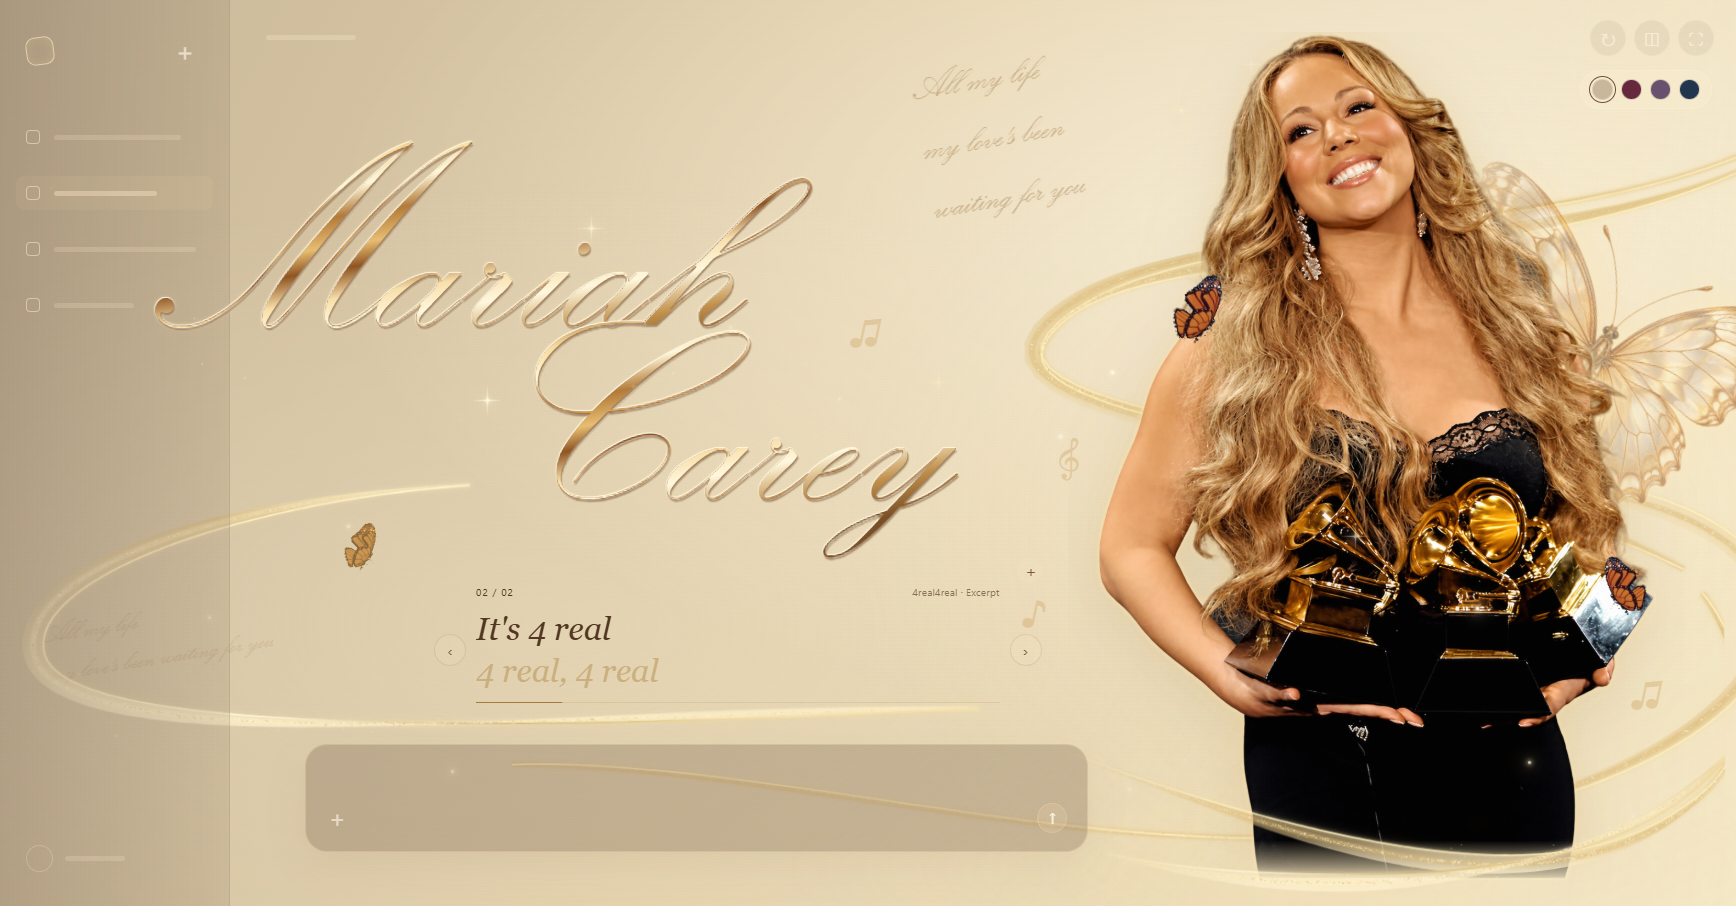
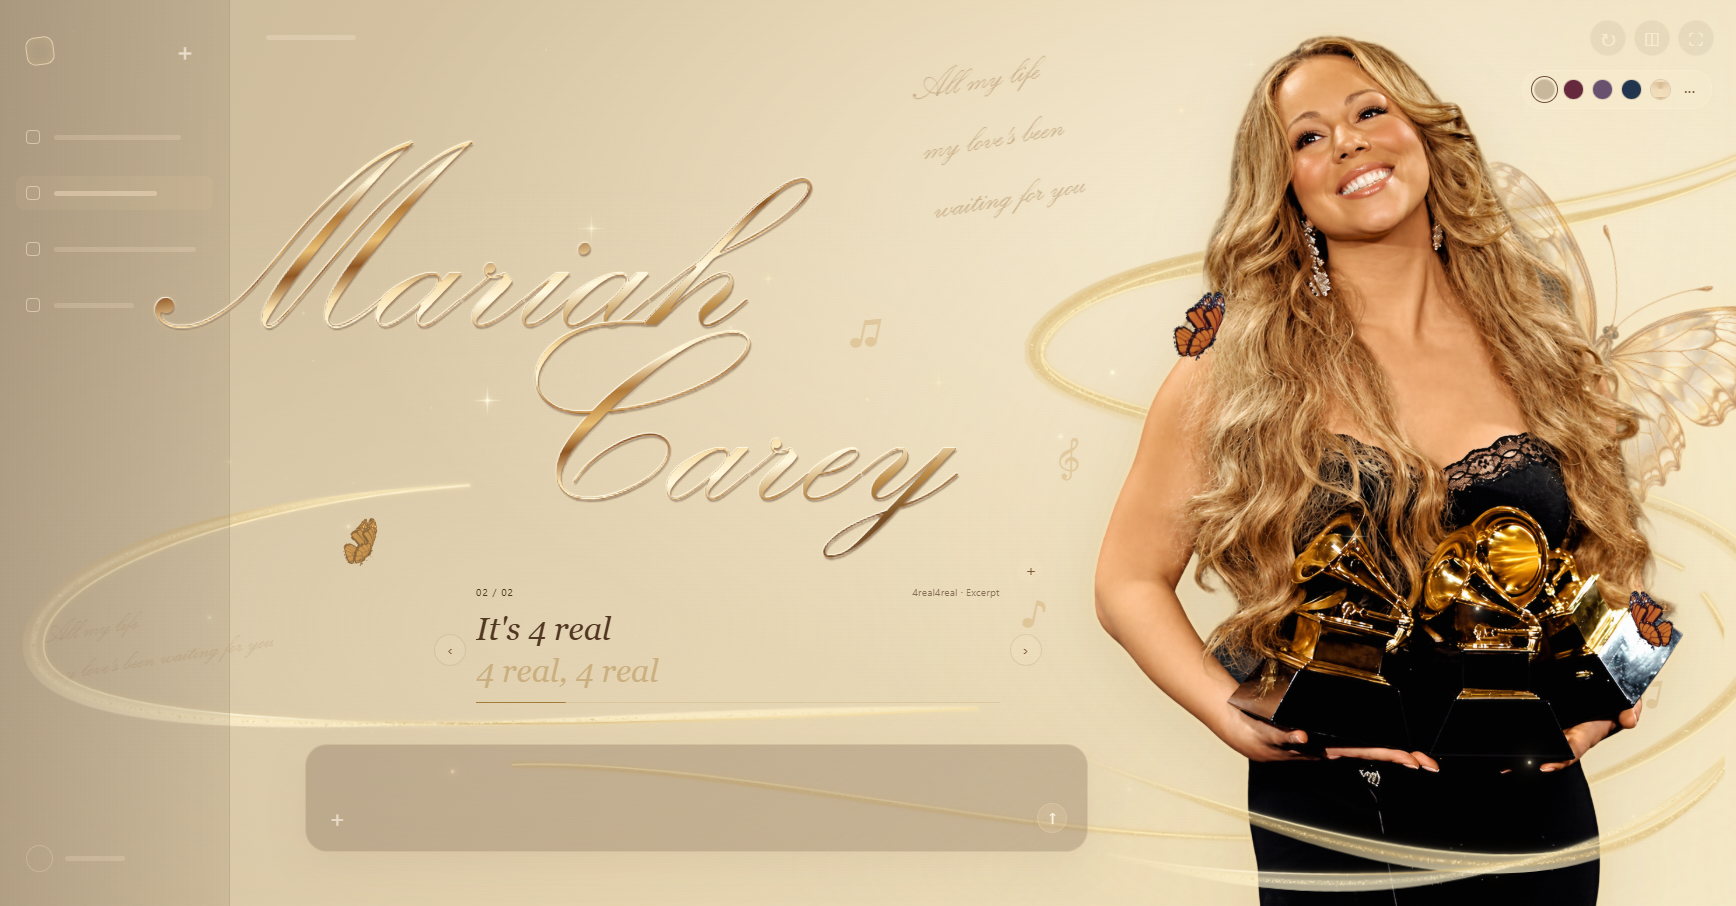
Add compact palette picker and conceal portrait bottom edge

Changed region(s): [[0.6221, 0.0309, 0.9643, 1.0], [0.871, 0.0927, 0.9954, 0.1236], [0.1866, 0.5563, 0.2177, 0.6181]]

diff --git a/reference-visual.css b/reference-visual.css
@@ -137,3 +137,46 @@
 
 /* An asymmetric twilight composition: jewel colors collect at distinct focal points. */
 .stage[data-accent="champagne"]{--effect-color:#d5b676;--effect-light:#fff0c8;--effect-glow:#f1d69955;--effect-haze:#f3db9c20}
+.stage[data-accent="prism"]{--effect-color:#b38b75;--effect-light:#f6dfb5;--effect-glow:#e7c48255;--effect-haze:#d6ad8717;background:radial-gradient(ellipse 66% 78% at 3% 10%,#426f9694 0%,#426f9645 44%,#426f9600 100%),radial-gradient(ellipse 64% 76% at 99% 92%,#426f968a 0%,#426f963b 44%,#426f9600 100%),radial-gradient(ellipse 64% 72% at 10% 94%,#b56c5e80 0%,#b56c5e38 46%,#b56c5e00 100%),radial-gradient(ellipse 64% 72% at 94% 3%,#b56c5e78 0%,#b56c5e33 46%,#b56c5e00 100%),radial-gradient(ellipse 70% 90% at 57% 46%,#fff0cba6 0%,#fff0cb45 50%,#fff0cb00 100%),linear-gradient(115deg,#eed9b9,#f3dfbb 52%,#efdab9)}
+.stage[data-accent="prism"] .sidebar{background:transparent;border-right-color:transparent}
+.stage[data-accent="prism"] .composer{background:linear-gradient(105deg,#82684c38,#b59a7333 66%,#b9a58c32);border-color:#eee0c54a}
+.stage[data-accent="prism"] .beam{background:radial-gradient(ellipse at 65% 35%,#fff0dc18,#fff0dc00 70%)}
+.stage[data-accent="prism"] .lyric-line:not(.lyric-next){color:#453d32}
+.stage[data-accent="prism"] .lyric-next{color:#8b664b}
+.stage[data-accent="prism"] .bg-words.lower{color:#f3e5ce;opacity:.4}
+.stage[data-accent="prism"] #translucent-0-1 stop:nth-child(2){stop-color:#b57960}
+.stage[data-accent="prism"] #translucent-0-1 stop:nth-child(4){stop-color:#e5d0a8}
+.stage[data-accent="prism"] #translucent-1-1 stop:nth-child(2){stop-color:#739cb5}
+.stage[data-accent="prism"] #translucent-1-1 stop:nth-child(4){stop-color:#ead6ae}
+.stage[data-accent="prism"] .accent-trail-gradient stop:nth-child(2){stop-color:#eddbb4}
+.stage[data-accent="prism"] .accent-trail-gradient stop:nth-child(4){stop-color:#94b4c5}
+.stage[data-accent="prism"] .reference-ribbons:not(.front) .accent-grain{fill:#bca184}
+.stage[data-accent="prism"] .reference-ribbons.front .accent-grain{fill:#c4c9b9}
+.stage[data-accent="prism"] .reference-star:nth-child(4n){background:#f0dcb2;box-shadow:0 0 8px #e4c78d88}
+.stage[data-accent="prism"] .reference-star:nth-child(4n+1){background:#ccd4cc;box-shadow:0 0 8px #afbec488}
+.stage[data-accent="prism"] #champagneInk stop:nth-child(3){stop-color:#e4cc9d}
+.stage[data-accent="prism"] #champagneInk stop:nth-child(8){stop-color:#eee0bc}
+
+/* Local palette studies; the portrait keeps its original warm lighting. */
+.stage[data-accent="teal"]{--effect-color:#63958a;--effect-light:#e5e7bf;--effect-glow:#8cbb9e55;--effect-haze:#709d8617}
+.stage[data-accent="olive"]{--effect-color:#ac965a;--effect-light:#f2e4b5;--effect-glow:#c1ac6755;--effect-haze:#b7a06b17}
+.stage[data-accent="burgundy"]{--effect-color:#ba827e;--effect-light:#f4d5b8;--effect-glow:#d4a08a55;--effect-haze:#b87b7117}
+.stage[data-accent="pearl"]{--effect-color:#95b2c8;--effect-light:#f1ecd9;--effect-glow:#afcad755;--effect-haze:#9dbccc17}
+.stage:is([data-accent="teal"],[data-accent="olive"],[data-accent="burgundy"],[data-accent="pearl"]){background:radial-gradient(ellipse 75% 100% at 73% 30%,#fff0d3b3 0%,#fff0d333 50%,#fff0d300 100%),radial-gradient(ellipse 80% 90% at 98% 110%,var(--left) 0%,transparent 78%),linear-gradient(115deg,var(--left),var(--mid) 48%,var(--right))}
+.stage:is([data-accent="teal"],[data-accent="olive"],[data-accent="burgundy"],[data-accent="pearl"]) .sidebar{background:transparent;border-right-color:transparent}
+
+.palette .palette-more{background:transparent;color:#775d40;box-shadow:none;font-size:18px;line-height:14px}
+.palette-extra{position:absolute;right:0;top:calc(100% + 10px);width:288px;max-width:calc(100vw - 32px);padding:12px;display:grid;grid-template-columns:1fr 1fr;gap:8px;background:#f5ebdceF;border:1px solid #c9ae7970;border-radius:16px;box-shadow:0 10px 32px #45362a25;backdrop-filter:blur(16px)}
+.palette-extra[hidden]{display:none}
+.palette-extra .palette-choice{width:auto;height:38px;border-radius:9px;border:1px solid transparent;box-shadow:none;color:#594834;font-size:12px;display:flex;align-items:center;gap:8px;padding:5px 8px;background:transparent}
+.palette-extra .palette-choice:before{content:'';width:18px;height:18px;flex-shrink:0;border-radius:50%;background:var(--swatch);box-shadow:0 0 0 1px #795c4933}
+.palette-extra .palette-choice:hover{background:#e9d9bf66}
+.palette-extra .palette-choice[aria-pressed=true]{outline:none;border-color:#a68a59;background:#eadac377}
+.stage[data-accent^="mix-"]{--effect-color:var(--left);--effect-light:#f5e0bc;--effect-glow:#dcc39355;--effect-haze:#d6ad8717;background:radial-gradient(ellipse 72% 85% at 0% 5%,color-mix(in srgb,var(--left) 65%,transparent),transparent 100%),radial-gradient(ellipse 68% 80% at 100% 95%,color-mix(in srgb,var(--left) 58%,transparent),transparent 100%),radial-gradient(ellipse 68% 80% at 0% 100%,color-mix(in srgb,var(--mid) 65%,transparent),transparent 100%),radial-gradient(ellipse 72% 85% at 100% 0%,color-mix(in srgb,var(--mid) 58%,transparent),transparent 100%),radial-gradient(ellipse at 65% 35%,#fff2d5aa,transparent 70%),linear-gradient(115deg,#eddbbf,var(--right))}
+.stage[data-accent^="mix-"] .sidebar{background:transparent;border-right-color:transparent}
+.stage[data-accent^="mix-"] .composer{background:#8b775239}
+.stage[data-accent^="mix-"] .accent-trail-gradient stop:nth-child(2){stop-color:var(--mid)}
+.stage[data-accent^="mix-"] .accent-trail-gradient stop:nth-child(4){stop-color:var(--left)}
+
+/* Keep the head at its existing height and carry the cropped hem below the viewport. */
+@media(min-width:851px){.stage .portrait{height:100vh;width:65.23vh;bottom:-3.5vh}.stage .photo{mask-image:none}}

diff --git a/index.html b/index.html
@@ -12,7 +12,22 @@ const stage=document.querySelector('#stage'),canvas=document.querySelector('#dus
 </style>
 <div class="palette" aria-label="背景配色"></div>
 <script>
-const themes=[['浅香槟','#c8b79a','#e3d0aa','#f4e8c9','champagne'],['香槟 × 深酒红','#65283d','#b58c89','#f1e5cb','wine'],['香槟 × 烟紫','#67516f','#b4a0ba','#f1e5cb','violet'],['香槟 × 午夜蓝','#22354e','#8eabb5','#f1e5cb','blue']];for(const [i,t] of themes.entries()){const btn=document.createElement('button');btn.style.background=t[1];btn.title=t[0];btn.setAttribute('aria-label',t[0]);btn.setAttribute('aria-pressed',i===0?'true':'false');btn.onclick=()=>{document.querySelector('.stage').dataset.accent=t[4];['--left','--mid','--right'].forEach((v,n)=>document.documentElement.style.setProperty(v,t[n+1]));document.querySelectorAll('.palette button').forEach(b=>b.setAttribute('aria-pressed',String(b===btn)))};document.querySelector('.palette').append(btn)}document.querySelector('.palette button:first-child').click();
+const themes=[['浅香槟','#c8b79a','#e3d0aa','#f4e8c9','champagne'],['香槟 × 深酒红','#65283d','#b58c89','#f1e5cb','wine'],['香槟 × 烟紫','#67516f','#b4a0ba','#f1e5cb','violet'],['香槟 × 午夜蓝','#22354e','#8eabb5','#f1e5cb','blue'],['暮光撞色','#d7bb94','#f3dfbb','#efdab9','prism'],['孔雀青金','#376b69','#c8cfb4','#f2e3c5','teal'],['橄榄金','#77764c','#d1c39b','#f2e2be','olive'],['勃艮第红','#79424b','#d0afa0','#f4e0be','burgundy'],['珍珠蓝金','#718ca9','#c7d7df','#f3e5cd','pearl'],['青碧 · 玫瑰金','#417e78','#c58d7d','#f4dfb9','mix-jade'],['莓红 · 月光蓝','#945967','#7e9fba','#f3dfbf','mix-berry'],['琥珀 · 靛青','#bc8754','#596d9c','#f5e1bb','mix-amber']];
+const palette=document.querySelector('.palette'),extra=document.createElement('div'),more=document.createElement('button');
+extra.id='palette-extra';extra.className='palette-extra';extra.hidden=true;
+more.className='palette-more';more.textContent='···';more.title='更多配色';more.setAttribute('aria-label','更多配色');more.setAttribute('aria-expanded','false');more.setAttribute('aria-controls',extra.id);
+function closePalette(){extra.hidden=true;more.setAttribute('aria-expanded','false')}
+for(const [i,t] of themes.entries()){
+ const btn=document.createElement('button'),mixed=t[4]==='prism'||t[4].startsWith('mix-');
+ btn.className='palette-choice';btn.style.background=mixed?`conic-gradient(${t[1]},${t[3]},${t[2]},${t[3]},${t[1]})`:t[1];btn.title=t[0];btn.setAttribute('aria-label',t[0]);btn.setAttribute('aria-pressed','false');
+ if(i>=5){btn.textContent=t[0];btn.style.setProperty('--swatch',btn.style.background);btn.style.background=''}
+ btn.onclick=()=>{stage.dataset.accent=t[4];['--left','--mid','--right'].forEach((v,n)=>document.documentElement.style.setProperty(v,t[n+1]));palette.querySelectorAll('.palette-choice').forEach(b=>b.setAttribute('aria-pressed',String(b===btn)));closePalette();if(i>=5)more.focus()};
+ (i<5?palette:extra).append(btn);
+}
+more.onclick=()=>{extra.hidden=!extra.hidden;more.setAttribute('aria-expanded',String(!extra.hidden))};palette.append(more,extra);
+document.addEventListener('pointerdown',e=>{if(!palette.contains(e.target))closePalette()});
+document.addEventListener('keydown',e=>{if(e.key==='Escape'&&!extra.hidden){closePalette();more.focus()}});
+palette.querySelector('.palette-choice').click();
 </script><style>
 /* Keep the photo filter constant: the previous bright filter changed at the end of the reveal. */
 .photo{animation:softPortrait 6s .7s cubic-bezier(.4,0,.6,1) both;will-change:opacity;filter:drop-shadow(0 18px 38px #3b201e44)}
@@ -57,7 +72,7 @@ function paintNameLight(time){nc.clearRect(0,0,nw,nh);const r=signature.getBound
 .stage[data-accent="blue"] .lyric-next{color:#ffecb8}
 .stage[data-accent="blue"] .lyrics-top{color:#fff1d3}
 .stage[data-accent="blue"] .bg-words.lower,.stage[data-accent="violet"] .bg-words.lower{color:#fff1d3;opacity:.4}
-</style><link rel="stylesheet" href="theme-upgrade.css?v=1"><script src="theme-upgrade.js?v=2"></script><link rel="stylesheet" href="reference-visual.css?v=21"><script src="reference-visual.js?v=14"></script></html>
+</style><link rel="stylesheet" href="theme-upgrade.css?v=1"><script src="theme-upgrade.js?v=2"></script><link rel="stylesheet" href="reference-visual.css?v=26"><script src="reference-visual.js?v=14"></script></html>
 
 
 

diff --git a/README.md b/README.md
@@ -4,7 +4,7 @@
 
 [![Mariah Carey 香槟金动态壁纸预览](docs/preview.png)](https://lambily555.github.io/Mariah-Carey-wallpaper/)
 
-以香槟金为主的动态壁纸，包含人物渐显、环绕丝带、蝴蝶扇翅、星光与歌词短句。提供浅香槟、红金、紫金、蓝金四套配色；配色同时作用于背景、丝带与粒子。
+以香槟金为主的动态壁纸，包含人物渐显、环绕丝带、蝴蝶扇翅、星光与歌词短句。提供浅香槟、红金、紫金、蓝金及多组撞色，共十二套配色；配色同时作用于背景、丝带与粒子。
 
 ## 使用
 
@@ -13,7 +13,7 @@
 - **R**：重播入场动画
 - **H**：隐藏或显示界面，查看纯壁纸
 - **F**：全屏
-- 右上角四个圆点切换配色，默认展示「浅香槟」
+- 右上角展示五个配色圆点，点击「···」展开其余配色；点击空白处或按 Esc 收起。默认展示「浅香槟」
 - 歌词两侧箭头切换歌曲，小「＋」导入自己持有的 TXT / LRC 文件
 
 滚动区内置《Butterfly》和《4real4real》的简短节选，背景使用《All My Life》的简短节选；不包含完整歌词或音频。导入内容仅保存在当前浏览器。
